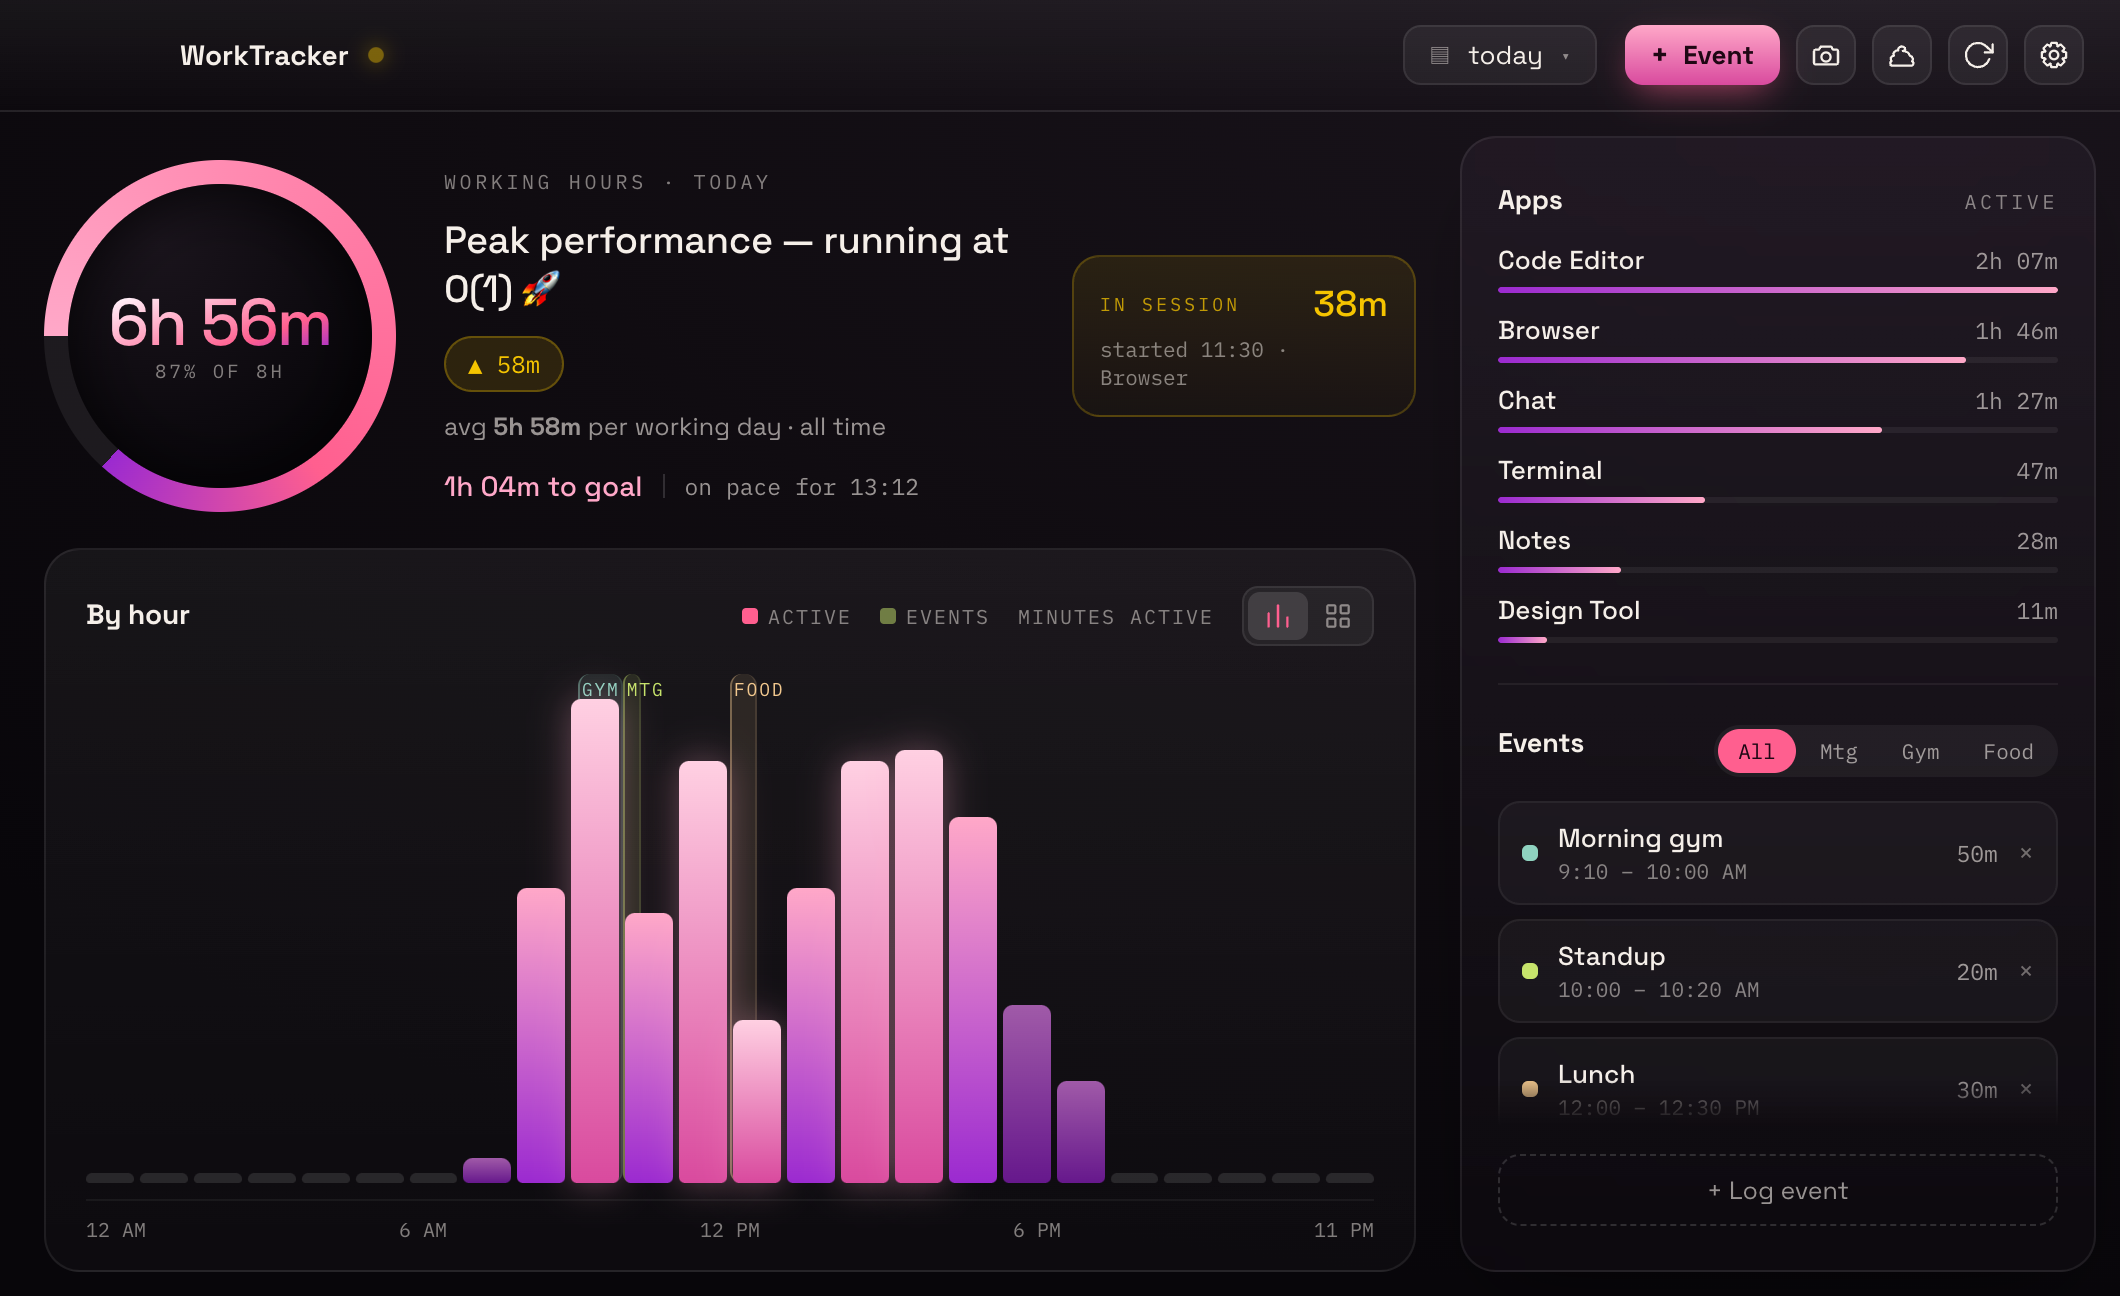
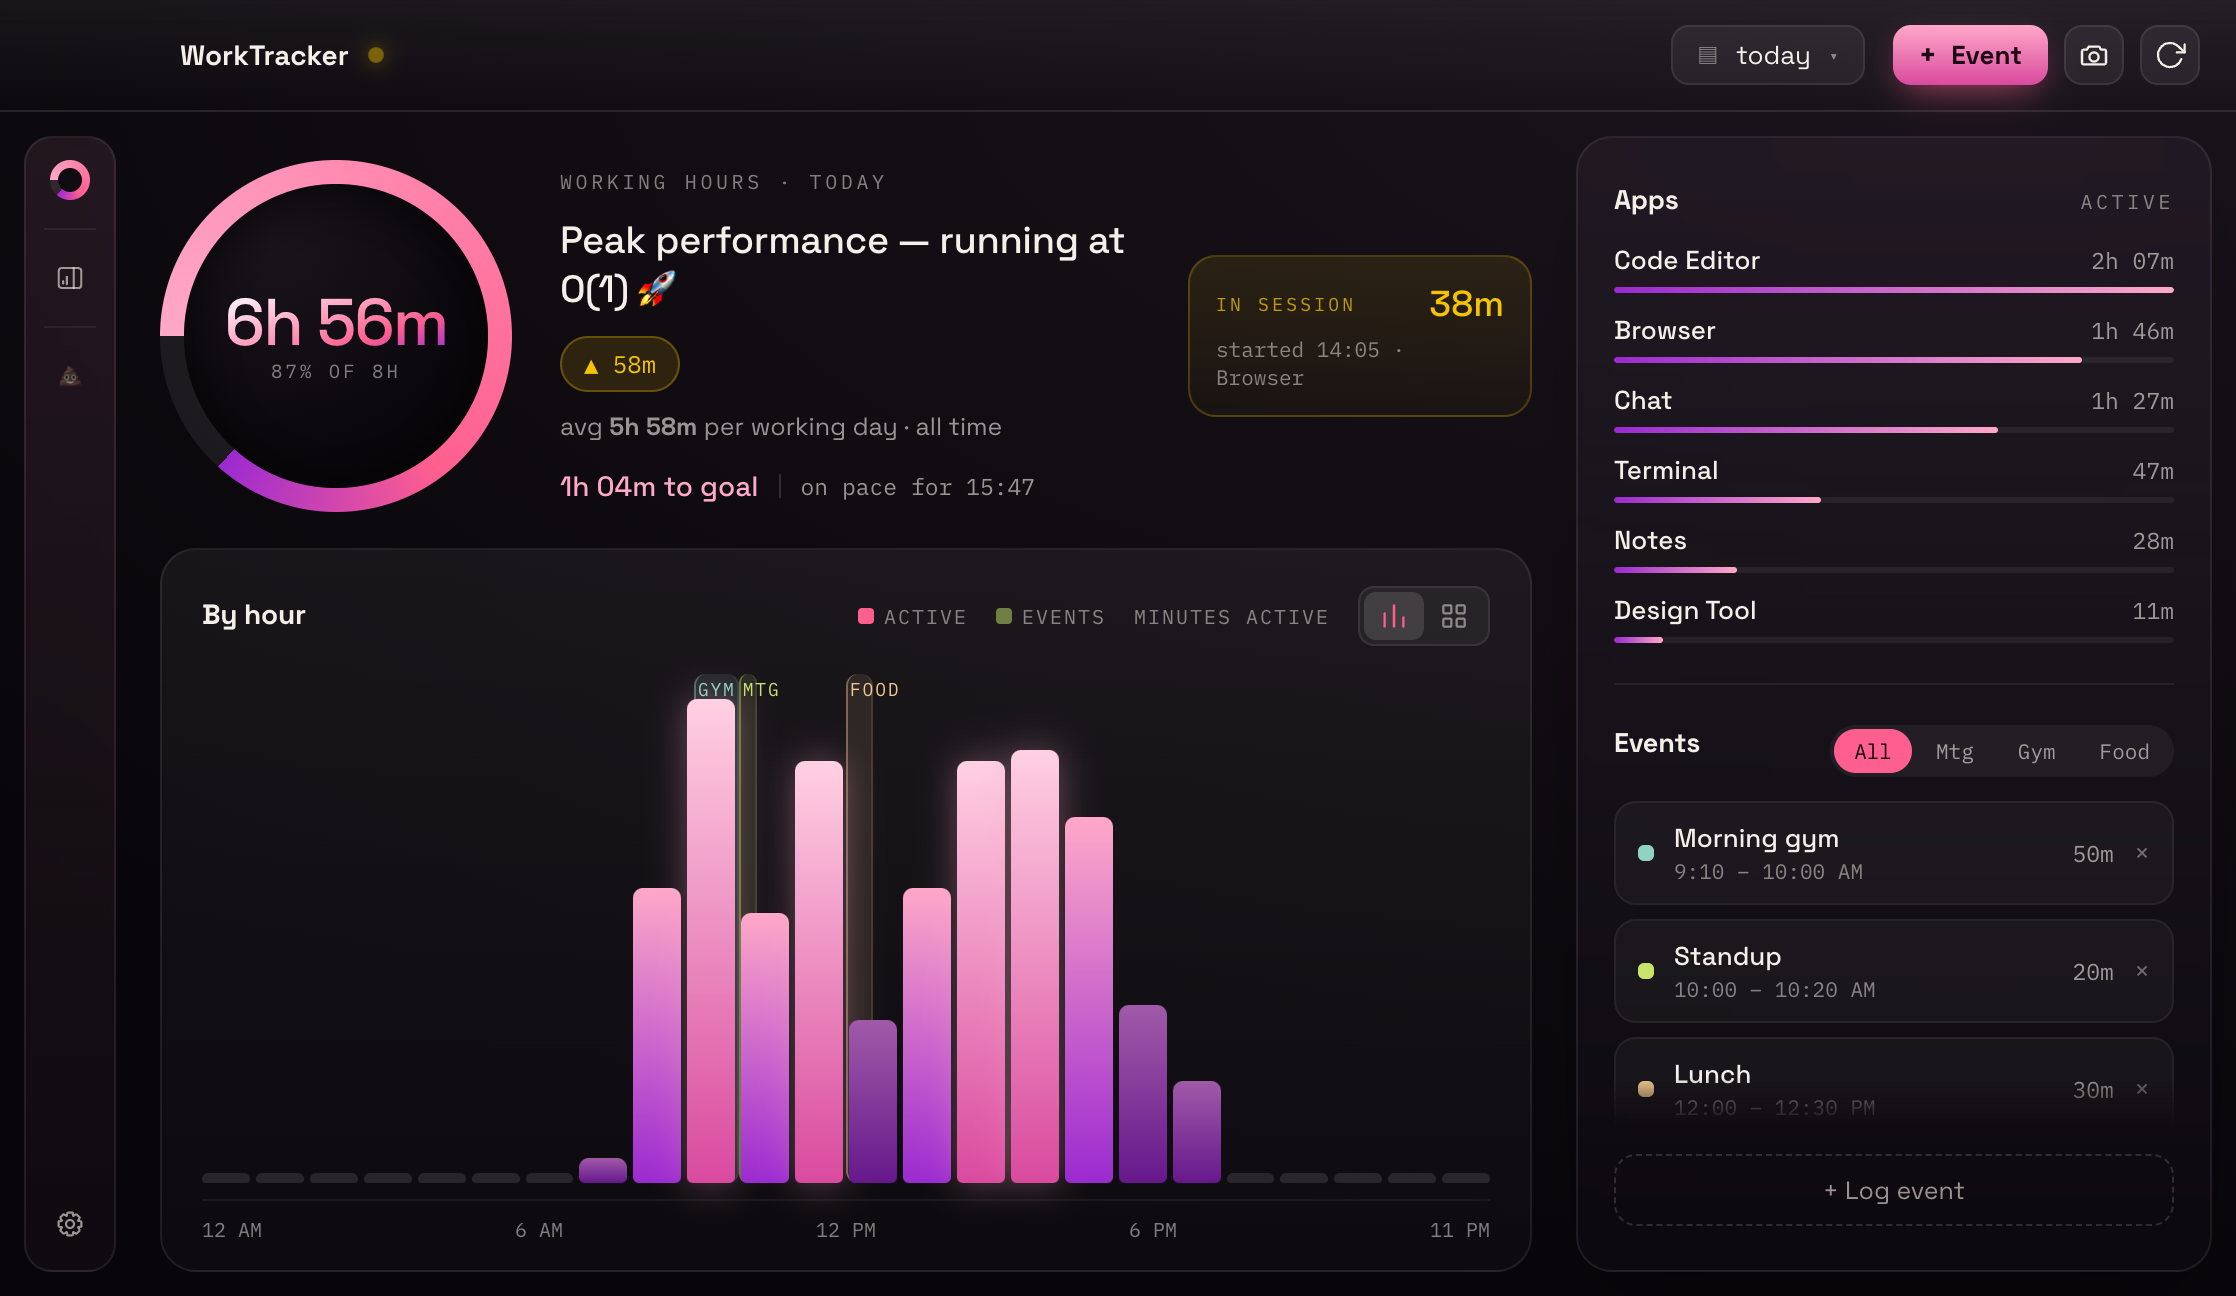
0.11.0 — the left rail and the settings screen
Every dashboard shot regenerated (they all show the rail now), plus a new
settings-screen.png. menubar-card.png is byte-identical, which is correct — it
has no clock in it.

diff --git a/README.md b/README.md
@@ -89,10 +89,26 @@ days and holidays drop out on their own with nothing to mark.
 - **Live session** — how long this stretch of work has been going, and in which app
 - Activity **by hour, by day or by month**, as **bars or a heatmap**, with
   anything you logged drawn as bands behind today's hours
-- Your top apps and your logged events, in a floating sidebar
+- Your top apps and your logged events, in a floating rail
 - **Snapshot** — export a shareable card of whatever range you're looking at (below)
 - Drag the window narrow and it becomes a compact glance card
 - Remembers its size and position between launches
+
+### One rail, three screens
+
+A slim rail runs down the left: the dashboard, the Throne Room, and settings.
+**Hover it and it opens** over whatever you're looking at — nothing on the page
+moves, so there's no pin to manage and no width to give up. The ring at the top
+is today's progress, and it stays with you on every screen.
+
+### Settings, with room to breathe
+
+Settings is a screen now, not a popover — General, Tracking, Appearance and
+About, with the rail carrying the categories. Every control has room for a line
+saying what it actually does, and the break-detection range finally has enough
+width to label every stop on its scale instead of every other one.
+
+![Settings](screenshots/settings-screen.png)
 
 ### Bars or heatmap
 
